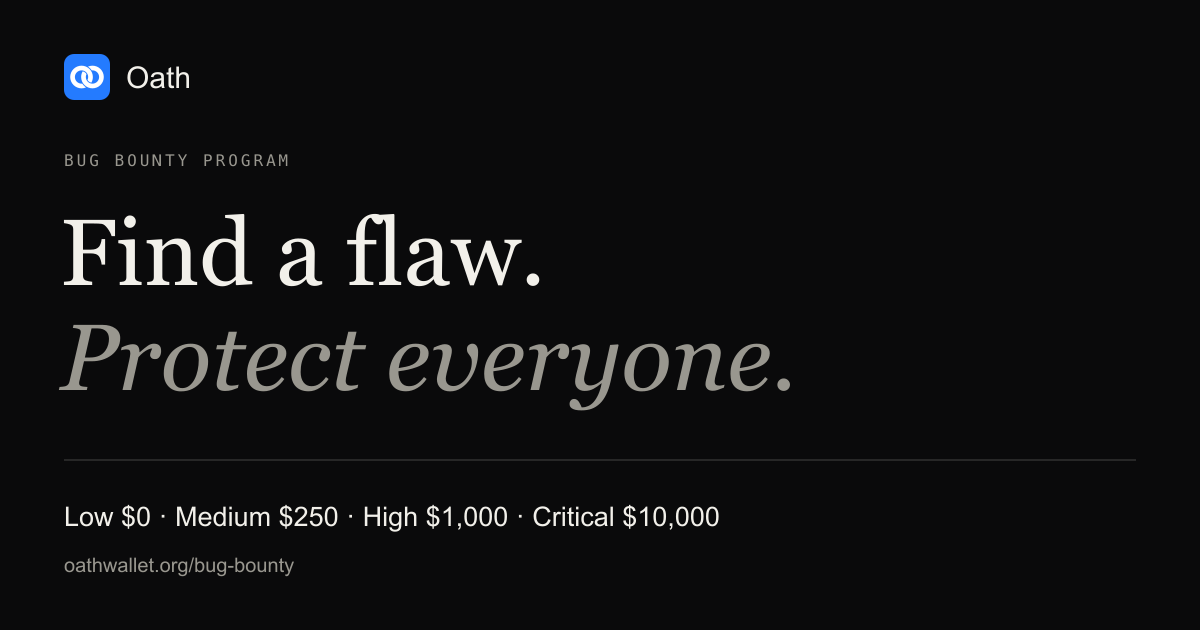
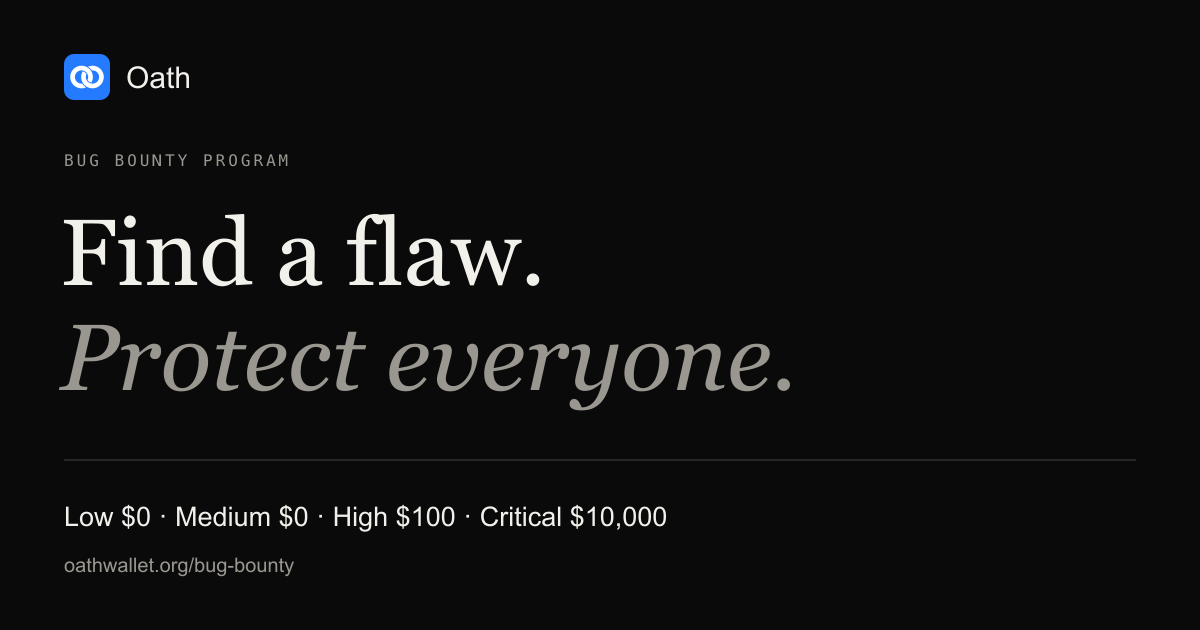
Update Medium and High bug bounty rewards

Changed region(s): [[0.2467, 0.7841, 0.6167, 0.8444]]

diff --git a/Website/public/bug-bounty.html b/Website/public/bug-bounty.html
@@ -1,5 +1,5 @@
 <!DOCTYPE html>
-<html lang="en"><head><meta charset="utf-8"><meta name="viewport" content="width=device-width,initial-scale=1"><title>Bug Bounty | Oath Wallet</title><meta name="description" content="Opening December 1, 2026. Help strengthen Oath Wallet. Explore security research scope, safe testing rules and rewards: Low $0, Medium $250, High $1,000 and Critical $10,000."><link rel="canonical" href="https://oathwallet.org/bug-bounty"><meta name="robots" content="index,follow,max-image-preview:large"><link rel="icon" href="/favicon.svg?v=e4c5dfe6ee7e" type="image/svg+xml"><link rel="apple-touch-icon" href="/apple-touch-icon.png?v=e4c5dfe6ee7e"><link rel="alternate" type="text/markdown" href="/bug-bounty.md"><meta property="og:type" content="website"><meta property="og:title" content="Bug Bounty | Oath Wallet"><meta property="og:description" content="Opening December 1, 2026. Help strengthen Oath Wallet. Explore security research scope, safe testing rules and rewards: Low $0, Medium $250, High $1,000 and Critical $10,000."><meta property="og:url" content="https://oathwallet.org/bug-bounty"><meta property="og:image" content="https://oathwallet.org/og/bug-bounty.png"><meta name="twitter:card" content="summary_large_image"><link rel="stylesheet" href="/bug-bounty.css"><script type="application/ld+json">{"@context":"https://schema.org","@type":"WebPage","name":"Bug Bounty | Oath Wallet","description":"Opening December 1, 2026. Help strengthen Oath Wallet. Explore security research scope, safe testing rules and rewards: Low $0, Medium $250, High $1,000 and Critical $10,000.","url":"https://oathwallet.org/bug-bounty","dateModified":"2026-11-01","publisher":{"@type":"Organization","name":"Oath Wallet","url":"https://oathwallet.org/"}}</script><link rel="stylesheet" href="/site-chrome.css"><link rel="stylesheet" href="https://fonts.googleapis.com/css2?family=Instrument+Serif:ital@0;1&amp;family=Instrument+Sans:wght@400;500;600&amp;family=IBM+Plex+Mono:wght@400;500&amp;display=swap"></head>
+<html lang="en"><head><meta charset="utf-8"><meta name="viewport" content="width=device-width,initial-scale=1"><title>Bug Bounty | Oath Wallet</title><meta name="description" content="Opening December 1, 2026. Help strengthen Oath Wallet. Explore security research scope, safe testing rules and rewards: Low $0, Medium $0, High $100 and Critical $10,000."><link rel="canonical" href="https://oathwallet.org/bug-bounty"><meta name="robots" content="index,follow,max-image-preview:large"><link rel="icon" href="/favicon.svg?v=e4c5dfe6ee7e" type="image/svg+xml"><link rel="apple-touch-icon" href="/apple-touch-icon.png?v=e4c5dfe6ee7e"><link rel="alternate" type="text/markdown" href="/bug-bounty.md"><meta property="og:type" content="website"><meta property="og:title" content="Bug Bounty | Oath Wallet"><meta property="og:description" content="Opening December 1, 2026. Help strengthen Oath Wallet. Explore security research scope, safe testing rules and rewards: Low $0, Medium $0, High $100 and Critical $10,000."><meta property="og:url" content="https://oathwallet.org/bug-bounty"><meta property="og:image" content="https://oathwallet.org/og/bug-bounty.png"><meta name="twitter:card" content="summary_large_image"><link rel="stylesheet" href="/bug-bounty.css"><script type="application/ld+json">{"@context":"https://schema.org","@type":"WebPage","name":"Bug Bounty | Oath Wallet","description":"Opening December 1, 2026. Help strengthen Oath Wallet. Explore security research scope, safe testing rules and rewards: Low $0, Medium $0, High $100 and Critical $10,000.","url":"https://oathwallet.org/bug-bounty","dateModified":"2026-11-06","publisher":{"@type":"Organization","name":"Oath Wallet","url":"https://oathwallet.org/"}}</script><link rel="stylesheet" href="/site-chrome.css"><link rel="stylesheet" href="https://fonts.googleapis.com/css2?family=Instrument+Serif:ital@0;1&amp;family=Instrument+Sans:wght@400;500;600&amp;family=IBM+Plex+Mono:wght@400;500&amp;display=swap"></head>
 <body><a class="bounty-skip" href="#main-content">Skip to content</a><!-- oath-shared-header:start --><div class="oath-site-header"><div id="oath-site-menu" inert aria-hidden="true" class="oath-header-0">
   <div class="oath-header-1">
     <nav aria-label="Mobile navigation" class="oath-header-2">
@@ -71,12 +71,12 @@
 <main id="main-content" class="bounty">
 <section class="bounty-hero" aria-labelledby="bounty-title"><div><div class="bounty-eyebrow"><span class="bounty-status"></span> Oath security · Bug bounty</div><h1 id="bounty-title">Find a flaw.<br><em>Protect everyone.</em></h1><p class="bounty-lead">Great security welcomes a closer look. Help us find vulnerabilities in Oath and make self-custody stronger for everyone.</p><div class="bounty-launch" data-bounty-start="2026-12-01T00:00:00Z"><p class="bounty-eyebrow" id="bounty-launch-status" role="status">Program opens</p><time datetime="2026-12-01T00:00:00Z" class="bounty-launch-date">December 1, 2026 · 00:00 UTC</time><div class="bounty-countdown" role="timer" aria-label="Time until the bug bounty program opens" aria-live="off" hidden><div><span data-countdown="days">00</span><small>Days</small></div><div><span data-countdown="hours">00</span><small>Hours</small></div><div><span data-countdown="minutes">00</span><small>Minutes</small></div><div><span data-countdown="seconds">00</span><small>Seconds</small></div></div></div><div class="bounty-actions"><a class="bounty-button primary" href="https://github.com/OathWallet/oath-wallet/security/advisories/new">Report a vulnerability</a><a class="bounty-button" href="#scope">Explore the scope <span aria-hidden="true">↓</span></a></div><p class="bounty-meta">Private reports. Real impact. Responsible research.</p></div><div class="bounty-poster"><div class="bounty-poster-top"><img src="/assets/brand/oath-logo.svg?v=e4c5dfe6ee7e" width="36" height="36" alt="Oath"><span>SECURITY, TOGETHER.</span></div><div class="bounty-seal"><svg viewBox="0 0 100 112" fill="none" aria-hidden="true"><path d="M50 6 88 22v32c0 23-16 42-38 52C28 96 12 77 12 54V22L50 6Z" stroke="currentColor" stroke-width="1.3"/><path d="m34 56 11 11 23-26" stroke="currentColor" stroke-width="2" stroke-linecap="round" stroke-linejoin="round"/></svg></div><div class="bounty-poster-reward"><span>Critical vulnerability reward</span><strong>$10,000</strong><small>USD · for an eligible, validated report</small></div></div></section>
 <nav class="bounty-nav" aria-label="Bug bounty sections"><a href="#rewards">Rewards</a><a href="#scope">Scope</a><a href="#rules">Testing rules</a><a href="#report">Submit a report</a><a href="#questions">Questions</a></nav>
-<section class="bounty-section" id="rewards"><div class="bounty-section-head"><div><span class="bounty-eyebrow">01 / Rewards</span><h2>Impact matters.</h2></div><p>Four severity levels. Clear rewards.<br>Amounts are in USD, per eligible unique vulnerability.</p></div><div class="bounty-rewards"><article class="bounty-reward " data-severity="low"><div class="bounty-tier"><span class="bounty-bars" aria-hidden="true"><i class="on"></i><i class=""></i><i class=""></i><i class=""></i></span><h3>Low</h3></div><div class="bounty-amount">$0</div><p>Limited security impact. Useful findings that strengthen the details.</p><details><summary>Severity example</summary><div><p>A narrowly constrained information exposure with no sensitive wallet data or meaningful privilege gain.</p><span class="bounty-meta">CVSS 0.1–3.9 · reference range</span></div></details></article><article class="bounty-reward " data-severity="medium"><div class="bounty-tier"><span class="bounty-bars" aria-hidden="true"><i class="on"></i><i class="on"></i><i class=""></i><i class=""></i></span><h3>Medium</h3></div><div class="bounty-amount">$250</div><p>A meaningful security weakness with limited impact or significant prerequisites.</p><details><summary>Severity example</summary><div><p>An exploitable access-control or application vulnerability affecting limited non-public data, without exposing signing keys or enabling unauthorized transfers.</p><span class="bounty-meta">CVSS 4.0–6.9 · reference range</span></div></details></article><article class="bounty-reward " data-severity="high"><div class="bounty-tier"><span class="bounty-bars" aria-hidden="true"><i class="on"></i><i class="on"></i><i class="on"></i><i class=""></i></span><h3>High</h3></div><div class="bounty-amount">$1,000</div><p>Substantial compromise of confidentiality, integrity or availability.</p><details><summary>Severity example</summary><div><p>A practical bypass of an important security boundary, significant sensitive-data exposure, or a serious signing flaw requiring constrained conditions.</p><span class="bounty-meta">CVSS 7.0–8.9 · reference range</span></div></details></article><article class="bounty-reward critical" data-severity="critical"><div class="bounty-tier"><span class="bounty-bars" aria-hidden="true"><i class="on"></i><i class="on"></i><i class="on"></i><i class="on"></i></span><h3>Critical</h3></div><div class="bounty-amount">$10,000</div><p>A direct, severe threat to wallet keys or user funds.</p><details><summary>Severity example</summary><div><p>A reproducible flaw that permits unauthorized signing, extraction of protected private keys, or irreversible loss of funds under realistic conditions. Demonstrate it only with test assets.</p><span class="bounty-meta">CVSS 9.0–10.0 · reference range</span></div></details></article></div><p class="bounty-note">Rewards depend on validated impact and eligibility. <a href="https://www.first.org/cvss/v4.0/specification-document" target="_blank" rel="noopener">CVSS v4.0</a> is a reference; the final severity considers the actual Oath exploit path. Low findings have no monetary reward.</p></section>
+<section class="bounty-section" id="rewards"><div class="bounty-section-head"><div><span class="bounty-eyebrow">01 / Rewards</span><h2>Impact matters.</h2></div><p>Four severity levels. Clear rewards.<br>Amounts are in USD, per eligible unique vulnerability.</p></div><div class="bounty-rewards"><article class="bounty-reward " data-severity="low"><div class="bounty-tier"><span class="bounty-bars" aria-hidden="true"><i class="on"></i><i class=""></i><i class=""></i><i class=""></i></span><h3>Low</h3></div><div class="bounty-amount">$0</div><p>Limited security impact. Useful findings that strengthen the details.</p><details><summary>Severity example</summary><div><p>A narrowly constrained information exposure with no sensitive wallet data or meaningful privilege gain.</p><span class="bounty-meta">CVSS 0.1–3.9 · reference range</span></div></details></article><article class="bounty-reward " data-severity="medium"><div class="bounty-tier"><span class="bounty-bars" aria-hidden="true"><i class="on"></i><i class="on"></i><i class=""></i><i class=""></i></span><h3>Medium</h3></div><div class="bounty-amount">$0</div><p>A meaningful security weakness with limited impact or significant prerequisites.</p><details><summary>Severity example</summary><div><p>An exploitable access-control or application vulnerability affecting limited non-public data, without exposing signing keys or enabling unauthorized transfers.</p><span class="bounty-meta">CVSS 4.0–6.9 · reference range</span></div></details></article><article class="bounty-reward " data-severity="high"><div class="bounty-tier"><span class="bounty-bars" aria-hidden="true"><i class="on"></i><i class="on"></i><i class="on"></i><i class=""></i></span><h3>High</h3></div><div class="bounty-amount">$100</div><p>Substantial compromise of confidentiality, integrity or availability.</p><details><summary>Severity example</summary><div><p>A practical bypass of an important security boundary, significant sensitive-data exposure, or a serious signing flaw requiring constrained conditions.</p><span class="bounty-meta">CVSS 7.0–8.9 · reference range</span></div></details></article><article class="bounty-reward critical" data-severity="critical"><div class="bounty-tier"><span class="bounty-bars" aria-hidden="true"><i class="on"></i><i class="on"></i><i class="on"></i><i class="on"></i></span><h3>Critical</h3></div><div class="bounty-amount">$10,000</div><p>A direct, severe threat to wallet keys or user funds.</p><details><summary>Severity example</summary><div><p>A reproducible flaw that permits unauthorized signing, extraction of protected private keys, or irreversible loss of funds under realistic conditions. Demonstrate it only with test assets.</p><span class="bounty-meta">CVSS 9.0–10.0 · reference range</span></div></details></article></div><p class="bounty-note">Rewards depend on validated impact and eligibility. <a href="https://www.first.org/cvss/v4.0/specification-document" target="_blank" rel="noopener">CVSS v4.0</a> is a reference; the final severity considers the actual Oath exploit path. Low and Medium findings have no monetary reward.</p></section>
 <section class="bounty-section" id="scope"><div class="bounty-section-head"><div><span class="bounty-eyebrow">02 / In scope</span><h2>Know where to look.</h2></div><p>Focus on the boundaries that protect keys, transactions and user data.</p></div><div class="bounty-scope"><article><span class="bounty-scope-number">01</span><div><span class="bounty-eyebrow">Application</span><h3>Oath for iOS &amp; iPadOS</h3><p>The current publicly released Oath Wallet app. Include the exact app build, OS version and affected network. Focus on key protection, authentication, recovery, transaction construction and signing.</p></div><a href="https://apps.apple.com/app/id6780187283" target="_blank" rel="noopener">View the app</a></article><article><span class="bounty-scope-number">02</span><div><span class="bounty-eyebrow">Code</span><h3>Public source</h3><p>Security-relevant Oath code in OathWallet/oath-wallet. Pin the commit and demonstrate a reachable impact in a current supported feature. A source-only finding must identify the affected code and must not claim it proves App Store binary behavior.</p></div><a href="https://github.com/OathWallet/oath-wallet" target="_blank" rel="noopener">Explore the source</a></article><article><span class="bounty-scope-number">03</span><div><span class="bounty-eyebrow">Web</span><h3>Oath websites</h3><p>Oath-controlled application behavior on oathwallet.org, help.oathwallet.org and articles.oathwallet.org. Use only your own account and test data. These exact hosts are in scope; other subdomains and infrastructure are not included automatically.</p></div><a href="https://oathwallet.org/" target="_blank" rel="noopener">Visit the website</a></article></div><details class="bounty-exclusions"><summary>What is outside the program?</summary><ul class="bounty-list"><li>Third-party wallets, dApps, blockchains, RPC providers, Apple, GitHub, cloud providers and other services are not authorized targets. A demonstrated vulnerability in Oath’s own use of a dependency can still qualify.</li><li>Unverified scanner output, dependency version alerts, missing headers or best-practice recommendations without a reproducible security impact.</li><li>Cosmetic issues, ordinary product bugs, unsupported features, price differences, market losses and service interruptions without an Oath security vulnerability.</li><li>Expected behavior that requires the victim to disclose their recovery phrase, approve the accurately displayed malicious transaction, or grant the attacker full device control, unless a separate Oath security boundary is demonstrably bypassed.</li><li>Issues already publicly documented, already known to Oath, or duplicate reports of the same root cause. Still report a materially different exploit path or an incomplete fix with new evidence.</li></ul></details></section>
-<section class="bounty-section" id="rules"><div class="bounty-section-head"><div><span class="bounty-eyebrow">03 / Research responsibly</span><h2>Protect people.<br><em>While protecting Oath.</em></h2></div><p>Read these rules before testing. Use the smallest safe proof that establishes the issue.</p></div><div class="bounty-rules"><article><span class="bounty-rule-index">01</span><h3>Use a controlled environment</h3><p>Use local builds, isolated forks or testnets with disposable wallets and synthetic data. Website testing must be non-destructive and limited to accounts and data you control. Do not use real user funds or send mainnet transactions to prove impact.</p></article><article><span class="bounty-rule-index">02</span><h3>Stop at the smallest proof</h3><p>Do not access, copy, change or delete another person’s data. If you encounter it unexpectedly, stop immediately and report the minimum redacted evidence privately. Do not continue exploiting the issue or retain unnecessary data.</p></article><article><span class="bounty-rule-index">03</span><h3>Keep services available</h3><p>No denial-of-service, stress tests, bulk scanning, brute force, spam, phishing, social engineering or physical attacks. Do not persist access, install malware, weaken protections or target staff, users or third-party infrastructure.</p></article><article><span class="bounty-rule-index">04</span><h3>Coordinate disclosure</h3><p>Report promptly through the private channel. Keep exploit details private while we investigate and coordinate a disclosure date with us. Do not put vulnerabilities, secrets or personal data in public GitHub issues or social posts.</p></article></div><div class="bounty-eligibility"><h3>Eligibility & payment</h3><ul class="bounty-list"><li>Submit an original, reproducible security issue affecting an in-scope target. Explain the attacker’s prerequisites, the violated security boundary and the demonstrated impact.</li><li>The first actionable report of a unique issue is eligible. Multiple symptoms of one root cause are assessed together, not paid separately. Findings from work already commissioned and paid for by Oath are not paid again under this program.</li><li>Follow the testing rules and applicable law. If the ownership of a target or the safety of a test is unclear, ask before testing. This program does not authorize access to third-party systems.</li><li>Oath validates the report and confirms its final severity with the researcher. Eligible accepted findings receive the listed USD reward for that severity; Low findings have no monetary reward. Informational reports are not paid. Submission alone does not establish eligibility.</li><li>Payment arrangements and any necessary payment-compliance information are handled privately after acceptance. Do not include payment details or identity documents in the initial report. Oath will never ask for a payment, recovery phrase or private key to release a bounty.</li></ul></div></section>
+<section class="bounty-section" id="rules"><div class="bounty-section-head"><div><span class="bounty-eyebrow">03 / Research responsibly</span><h2>Protect people.<br><em>While protecting Oath.</em></h2></div><p>Read these rules before testing. Use the smallest safe proof that establishes the issue.</p></div><div class="bounty-rules"><article><span class="bounty-rule-index">01</span><h3>Use a controlled environment</h3><p>Use local builds, isolated forks or testnets with disposable wallets and synthetic data. Website testing must be non-destructive and limited to accounts and data you control. Do not use real user funds or send mainnet transactions to prove impact.</p></article><article><span class="bounty-rule-index">02</span><h3>Stop at the smallest proof</h3><p>Do not access, copy, change or delete another person’s data. If you encounter it unexpectedly, stop immediately and report the minimum redacted evidence privately. Do not continue exploiting the issue or retain unnecessary data.</p></article><article><span class="bounty-rule-index">03</span><h3>Keep services available</h3><p>No denial-of-service, stress tests, bulk scanning, brute force, spam, phishing, social engineering or physical attacks. Do not persist access, install malware, weaken protections or target staff, users or third-party infrastructure.</p></article><article><span class="bounty-rule-index">04</span><h3>Coordinate disclosure</h3><p>Report promptly through the private channel. Keep exploit details private while we investigate and coordinate a disclosure date with us. Do not put vulnerabilities, secrets or personal data in public GitHub issues or social posts.</p></article></div><div class="bounty-eligibility"><h3>Eligibility & payment</h3><ul class="bounty-list"><li>Submit an original, reproducible security issue affecting an in-scope target. Explain the attacker’s prerequisites, the violated security boundary and the demonstrated impact.</li><li>The first actionable report of a unique issue is eligible. Multiple symptoms of one root cause are assessed together, not paid separately. Findings from work already commissioned and paid for by Oath are not paid again under this program.</li><li>Follow the testing rules and applicable law. If the ownership of a target or the safety of a test is unclear, ask before testing. This program does not authorize access to third-party systems.</li><li>Oath validates the report and confirms its final severity with the researcher. Eligible accepted findings receive the listed USD reward for that severity; Low and Medium findings have no monetary reward. Informational reports are not paid. Submission alone does not establish eligibility.</li><li>Payment arrangements and any necessary payment-compliance information are handled privately after acceptance. Do not include payment details or identity documents in the initial report. Oath will never ask for a payment, recovery phrase or private key to release a bounty.</li></ul></div></section>
 <section class="bounty-section" id="process"><div class="bounty-section-head"><div><span class="bounty-eyebrow">04 / From discovery to resolution</span><h2>A clear path forward.</h2></div><p>One private conversation, from the first report to a coordinated disclosure.</p></div><ol class="bounty-process"><li><span>01</span><h3>Report privately</h3><p>Share the affected version, minimal reproduction and clear impact. Use the template below and redact sensitive information.</p></li><li><span>02</span><h3>Reproduce & assess</h3><p>We review scope, reproduce the issue and discuss severity. We may request a smaller proof or additional environment details.</p></li><li><span>03</span><h3>Resolve & reward</h3><p>We coordinate remediation, confirm eligibility and arrange the applicable reward privately. Response, fix and payment dates are confirmed in the report thread; no fixed turnaround is promised.</p></li><li><span>04</span><h3>Disclose together</h3><p>Agree on a safe publication date after remediation. Researcher credit is optional and requires your consent.</p></li></ol></section>
 <section class="bounty-report bounty-section" id="report"><div><span class="bounty-eyebrow">05 / Submit privately</span><h2>Found something?<br><em>Let’s look closer.</em></h2><p class="bounty-lead">Give us a clear, reproducible report. We’ll investigate the security impact and work with you on the next steps.</p><a class="bounty-button primary" href="https://github.com/OathWallet/oath-wallet/security/advisories/new">Report privately on GitHub</a><p class="bounty-meta">A GitHub account is required. Reports are not public issues.</p><p class="bounty-email">Prefer email? <a href="mailto:care@oathwallet.org?subject=Security%20report%20%E2%80%94%20Oath">care@oathwallet.org</a><br><span>Start with a non-sensitive summary. Never include real wallet secrets.</span></p></div><div class="bounty-template"><div class="bounty-template-head"><h3>Your report checklist</h3></div><ol><li>Affected app build, source commit or URL</li><li>Attacker prerequisites and minimal reproduction</li><li>Expected behavior and demonstrated impact</li><li>Redacted evidence using test assets</li><li>Suggested severity and fix, if available</li></ol><div class="bounty-template-actions"><button class="bounty-button" type="button" id="copy-report">Copy report template</button><a href="/bug-bounty-report-template.txt" download="Oath-security-report.txt">Download .txt</a></div><p id="copy-status" role="status" aria-live="polite"></p><details><summary>Read the full template</summary><pre id="report-template">Oath Wallet security report
-Program version: 1.1 (2026-11-01)
+Program version: 1.2 (2026-11-06)
 
 Title:
 Affected target / URL:
@@ -100,8 +100,8 @@ Suggested remediation (optional):
 
 Do not include real recovery phrases, private keys, passcodes, backup files, session tokens, identity documents or other people’s data.
 </pre></details></div></section>
-<section class="bounty-section bounty-faq" id="questions"><div class="bounty-section-head"><div><span class="bounty-eyebrow">Before you begin</span><h2>A few good questions.</h2></div></div><details><summary>How is severity decided?</summary><p>We assess demonstrated impact, exploitability, required privileges, user interaction and affected users. FIRST’s CVSS v4.0 ranges provide a reference, not an automatic payout calculation. Include a vector if helpful; Oath confirms the final category with an explanation. A theoretical maximum impact is not the same as a reproducible exploit.</p></details><details><summary>Do Low findings receive a reward?</summary><p>Low findings have a $0 monetary reward. We still welcome actionable reports that improve Oath. Informational feedback is also welcome, but is not eligible for payment.</p></details><details><summary>Can I submit without a GitHub account?</summary><p>Yes. Email care@oathwallet.org with the subject “Security report — Oath”. Start with a non-sensitive summary and ask for a private transfer route if your evidence needs one. Never send real recovery material, unredacted personal data or executable attachments.</p></details><details><summary>Can I test with a funded wallet?</summary><p>Use a disposable wallet with no real funds. Demonstrate financial impact locally or on a testnet using test assets. Do not move, freeze or recover anyone else’s assets, even to prove a vulnerability.</p></details><details><summary>Is this a guarantee of legal immunity?</summary><p>No. The permitted activities are limited to the scope and testing rules above. This page cannot authorize activity on third-party systems or waive another party’s rights. Ask us privately before any test whose authorization is unclear.</p></details><details><summary>What if my report is a duplicate or I disagree with the assessment?</summary><p>We assess one root cause as one issue and use the first actionable submission. If you believe the assessment missed an exploit path or impact, reply in the private thread with the additional evidence. Do not create public issues containing exploit details.</p></details><details><summary>Does a bounty mean Oath has been independently audited?</summary><p>No. This program invites vulnerability research; it is not an independent security audit, a certification, or a guarantee that software has no vulnerabilities.</p></details><details><summary>What if the program changes?</summary><p>The published scope and rewards may be updated prospectively. We assess a report using the program version in effect when it was received. This page identifies its version and effective date so researchers can reference them.</p></details></section>
-<div class="bounty-policy-meta"><span>Program v1.1 · Updated November 1, 2026</span><a href="/security">Read our security model</a><a href="/bug-bounty.md">Plain-text policy</a></div>
+<section class="bounty-section bounty-faq" id="questions"><div class="bounty-section-head"><div><span class="bounty-eyebrow">Before you begin</span><h2>A few good questions.</h2></div></div><details><summary>How is severity decided?</summary><p>We assess demonstrated impact, exploitability, required privileges, user interaction and affected users. FIRST’s CVSS v4.0 ranges provide a reference, not an automatic payout calculation. Include a vector if helpful; Oath confirms the final category with an explanation. A theoretical maximum impact is not the same as a reproducible exploit.</p></details><details><summary>Do Low and Medium findings receive a reward?</summary><p>Low and Medium findings have a $0 monetary reward. We still welcome actionable reports that improve Oath. Informational feedback is also welcome, but is not eligible for payment.</p></details><details><summary>Can I submit without a GitHub account?</summary><p>Yes. Email care@oathwallet.org with the subject “Security report — Oath”. Start with a non-sensitive summary and ask for a private transfer route if your evidence needs one. Never send real recovery material, unredacted personal data or executable attachments.</p></details><details><summary>Can I test with a funded wallet?</summary><p>Use a disposable wallet with no real funds. Demonstrate financial impact locally or on a testnet using test assets. Do not move, freeze or recover anyone else’s assets, even to prove a vulnerability.</p></details><details><summary>Is this a guarantee of legal immunity?</summary><p>No. The permitted activities are limited to the scope and testing rules above. This page cannot authorize activity on third-party systems or waive another party’s rights. Ask us privately before any test whose authorization is unclear.</p></details><details><summary>What if my report is a duplicate or I disagree with the assessment?</summary><p>We assess one root cause as one issue and use the first actionable submission. If you believe the assessment missed an exploit path or impact, reply in the private thread with the additional evidence. Do not create public issues containing exploit details.</p></details><details><summary>Does a bounty mean Oath has been independently audited?</summary><p>No. This program invites vulnerability research; it is not an independent security audit, a certification, or a guarantee that software has no vulnerabilities.</p></details><details><summary>What if the program changes?</summary><p>The published scope and rewards may be updated prospectively. We assess a report using the program version in effect when it was received. This page identifies its version and effective date so researchers can reference them.</p></details></section>
+<div class="bounty-policy-meta"><span>Program v1.2 · Updated November 6, 2026</span><a href="/security">Read our security model</a><a href="/bug-bounty.md">Plain-text policy</a></div>
 </main><!-- oath-shared-footer:start --><div class="oath-site-footer"><footer class="oath-footer-0">
   <div class="oath-footer-1">
     <div class="oath-footer-2">

diff --git a/Website/public/security.html b/Website/public/security.html
@@ -138,7 +138,7 @@
 <h2>Report a vulnerability</h2>
 <p>Use <a href="https://github.com/OathWallet/oath-wallet/security/advisories/new">GitHub private vulnerability reporting</a>. Include the affected version and reproduction steps using unfunded test material. Never send a real recovery phrase, private key, passphrase or backup password. Oath support cannot replace a missing recovery credential.</p>
 <h2>Bug bounty</h2>
-<p>Help strengthen Oath through responsible security research. Our <a href="https://oathwallet.org/bug-bounty">bug bounty program</a> defines scope, safe testing rules and rewards: Low $0, Medium $250, High $1,000 and Critical $10,000 for eligible, validated findings.</p></main><div class="oath-site-footer"><footer class="oath-footer-0">
+<p>Help strengthen Oath through responsible security research. Our <a href="https://oathwallet.org/bug-bounty">bug bounty program</a> defines scope, safe testing rules and rewards: Low $0, Medium $0, High $100 and Critical $10,000 for eligible, validated findings.</p></main><div class="oath-site-footer"><footer class="oath-footer-0">
   <div class="oath-footer-1">
     <div class="oath-footer-2">
       <div class="oath-footer-3">

diff --git a/Website/public/bug-bounty.md b/Website/public/bug-bounty.md
@@ -1,6 +1,6 @@
 # Oath Wallet Bug Bounty
 
-Program v1.1. Updated 2026-11-01.
+Program v1.2. Updated 2026-11-06.
 
 Bounty program opens December 1, 2026 · 00:00 UTC. Private security reports remain welcome before launch.
 
@@ -18,7 +18,7 @@ Example: A narrowly constrained information exposure with no sensitive wallet da
 
 CVSS 0.1–3.9 (reference only).
 
-### Medium: $250
+### Medium: $0
 
 A meaningful security weakness with limited impact or significant prerequisites.
 
@@ -26,7 +26,7 @@ Example: An exploitable access-control or application vulnerability affecting li
 
 CVSS 4.0–6.9 (reference only).
 
-### High: $1,000
+### High: $100
 
 Substantial compromise of confidentiality, integrity or availability.
 
@@ -95,7 +95,7 @@ Report promptly through the private channel. Keep exploit details private while 
 - Submit an original, reproducible security issue affecting an in-scope target. Explain the attacker’s prerequisites, the violated security boundary and the demonstrated impact.
 - The first actionable report of a unique issue is eligible. Multiple symptoms of one root cause are assessed together, not paid separately. Findings from work already commissioned and paid for by Oath are not paid again under this program.
 - Follow the testing rules and applicable law. If the ownership of a target or the safety of a test is unclear, ask before testing. This program does not authorize access to third-party systems.
-- Oath validates the report and confirms its final severity with the researcher. Eligible accepted findings receive the listed USD reward for that severity; Low findings have no monetary reward. Informational reports are not paid. Submission alone does not establish eligibility.
+- Oath validates the report and confirms its final severity with the researcher. Eligible accepted findings receive the listed USD reward for that severity; Low and Medium findings have no monetary reward. Informational reports are not paid. Submission alone does not establish eligibility.
 - Payment arrangements and any necessary payment-compliance information are handled privately after acceptance. Do not include payment details or identity documents in the initial report. Oath will never ask for a payment, recovery phrase or private key to release a bounty.
 
 ## Review process
@@ -115,9 +115,9 @@ Report promptly through the private channel. Keep exploit details private while 
 
 We assess demonstrated impact, exploitability, required privileges, user interaction and affected users. FIRST’s CVSS v4.0 ranges provide a reference, not an automatic payout calculation. Include a vector if helpful; Oath confirms the final category with an explanation. A theoretical maximum impact is not the same as a reproducible exploit.
 
-### Do Low findings receive a reward?
+### Do Low and Medium findings receive a reward?
 
-Low findings have a $0 monetary reward. We still welcome actionable reports that improve Oath. Informational feedback is also welcome, but is not eligible for payment.
+Low and Medium findings have a $0 monetary reward. We still welcome actionable reports that improve Oath. Informational feedback is also welcome, but is not eligible for payment.
 
 ### Can I submit without a GitHub account?
 

diff --git a/Website/public/security.md b/Website/public/security.md
@@ -61,4 +61,4 @@ Use [GitHub private vulnerability reporting](https://github.com/OathWallet/oath-
 
 ## Bug bounty
 
-Help strengthen Oath through responsible security research. Our [bug bounty program](https://oathwallet.org/bug-bounty) defines scope, safe testing rules and rewards: Low $0, Medium $250, High $1,000 and Critical $10,000 for eligible, validated findings.
+Help strengthen Oath through responsible security research. Our [bug bounty program](https://oathwallet.org/bug-bounty) defines scope, safe testing rules and rewards: Low $0, Medium $0, High $100 and Critical $10,000 for eligible, validated findings.
